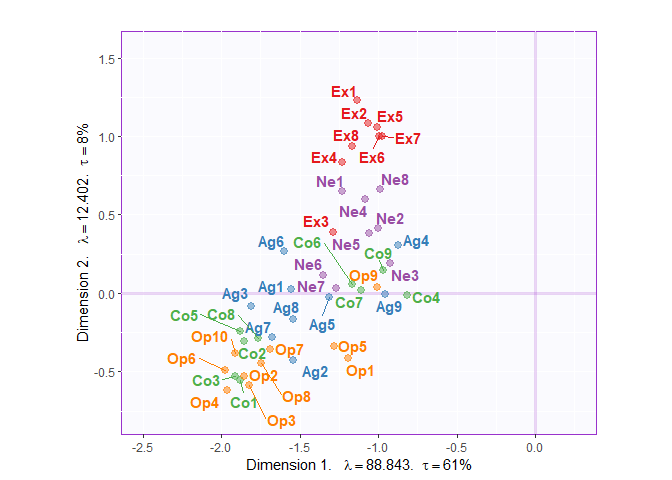
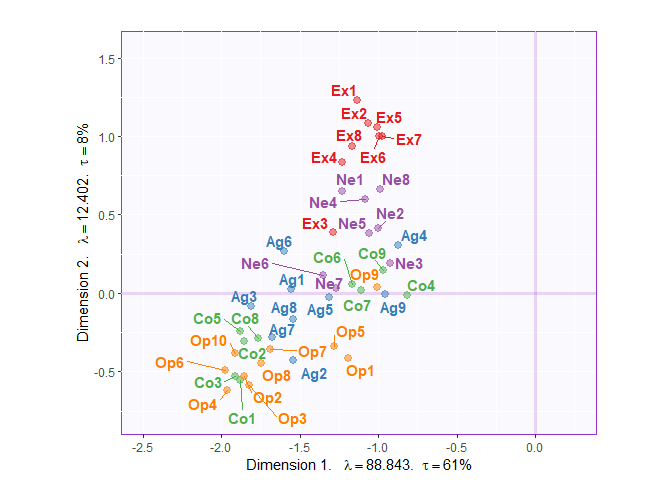
Add the pca factor map with 2nd and 3rd components for the original matrix

Changed region(s): [[0.2188, 0.3438, 0.6562, 0.9062], [0.5, 0.2188, 0.625, 0.4062], [0.5, 0.1562, 0.5312, 0.2188]]

diff --git a/demo_STATISnorm4r.md b/demo_STATISnorm4r.md
@@ -212,7 +212,7 @@ endX.pca.res <- epPCA(end.X, center = FALSE, scale = FALSE, DESIGN = group.des, 
 
 #### PCA results with original correlation matrix
 
-![](demo_STATISnorm4r_files/figure-gfm/pcaRes_corX-1.png)<!-- -->
+![](demo_STATISnorm4r_files/figure-gfm/pcaRes_corX-1.png)<!-- -->![](demo_STATISnorm4r_files/figure-gfm/pcaRes_corX-2.png)<!-- -->
 
 #### PCA results with STATIS-normalized matrix
 
